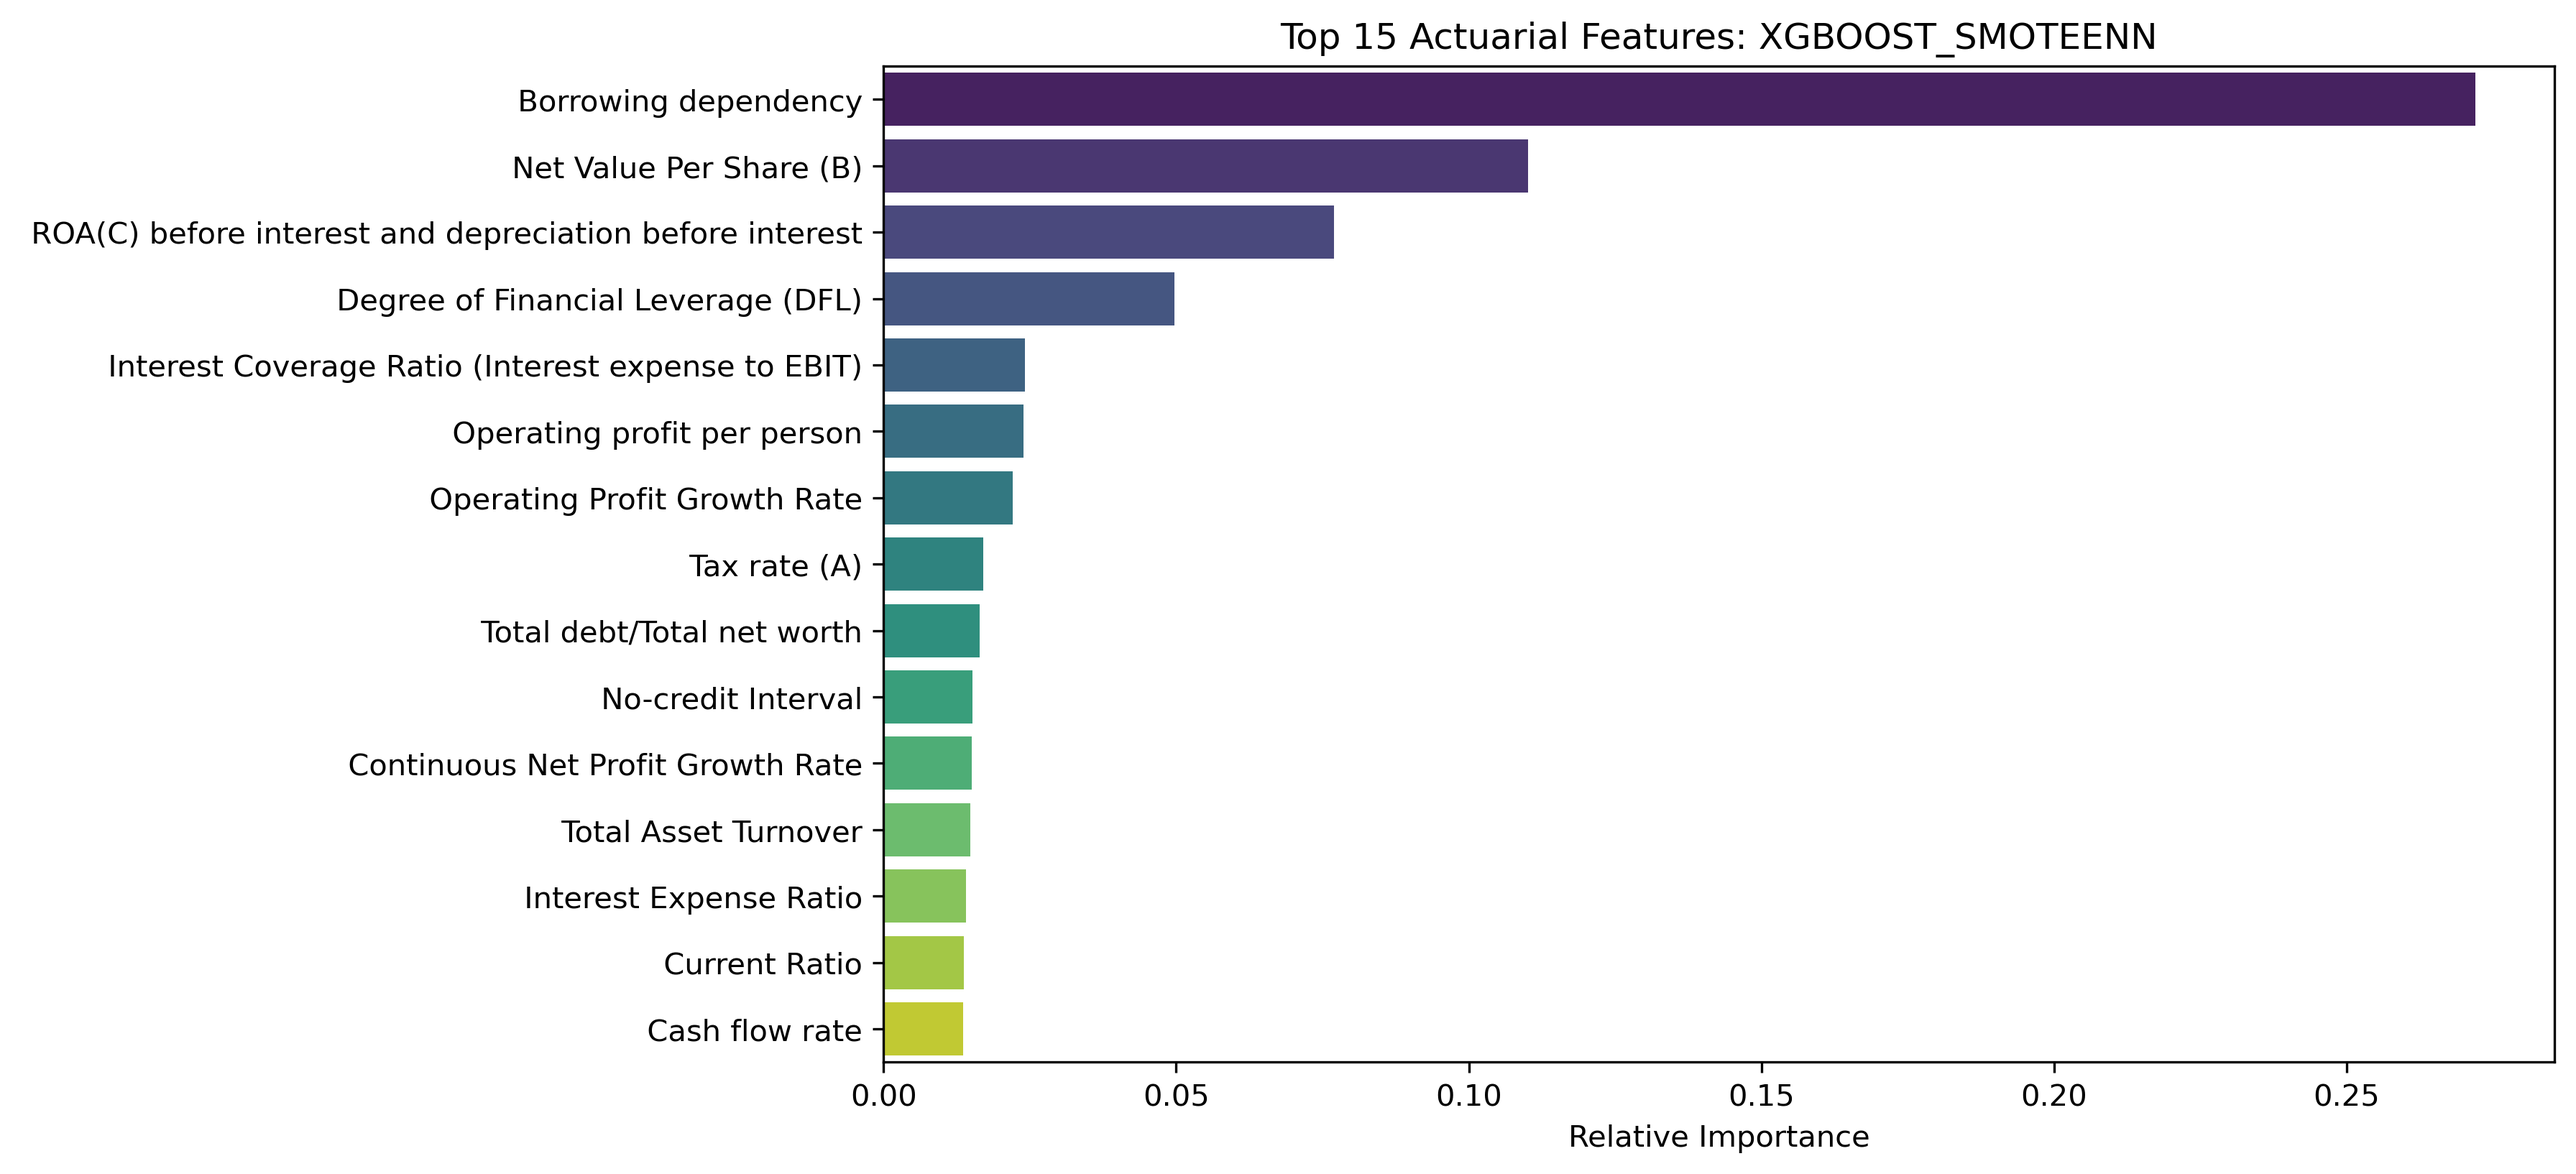
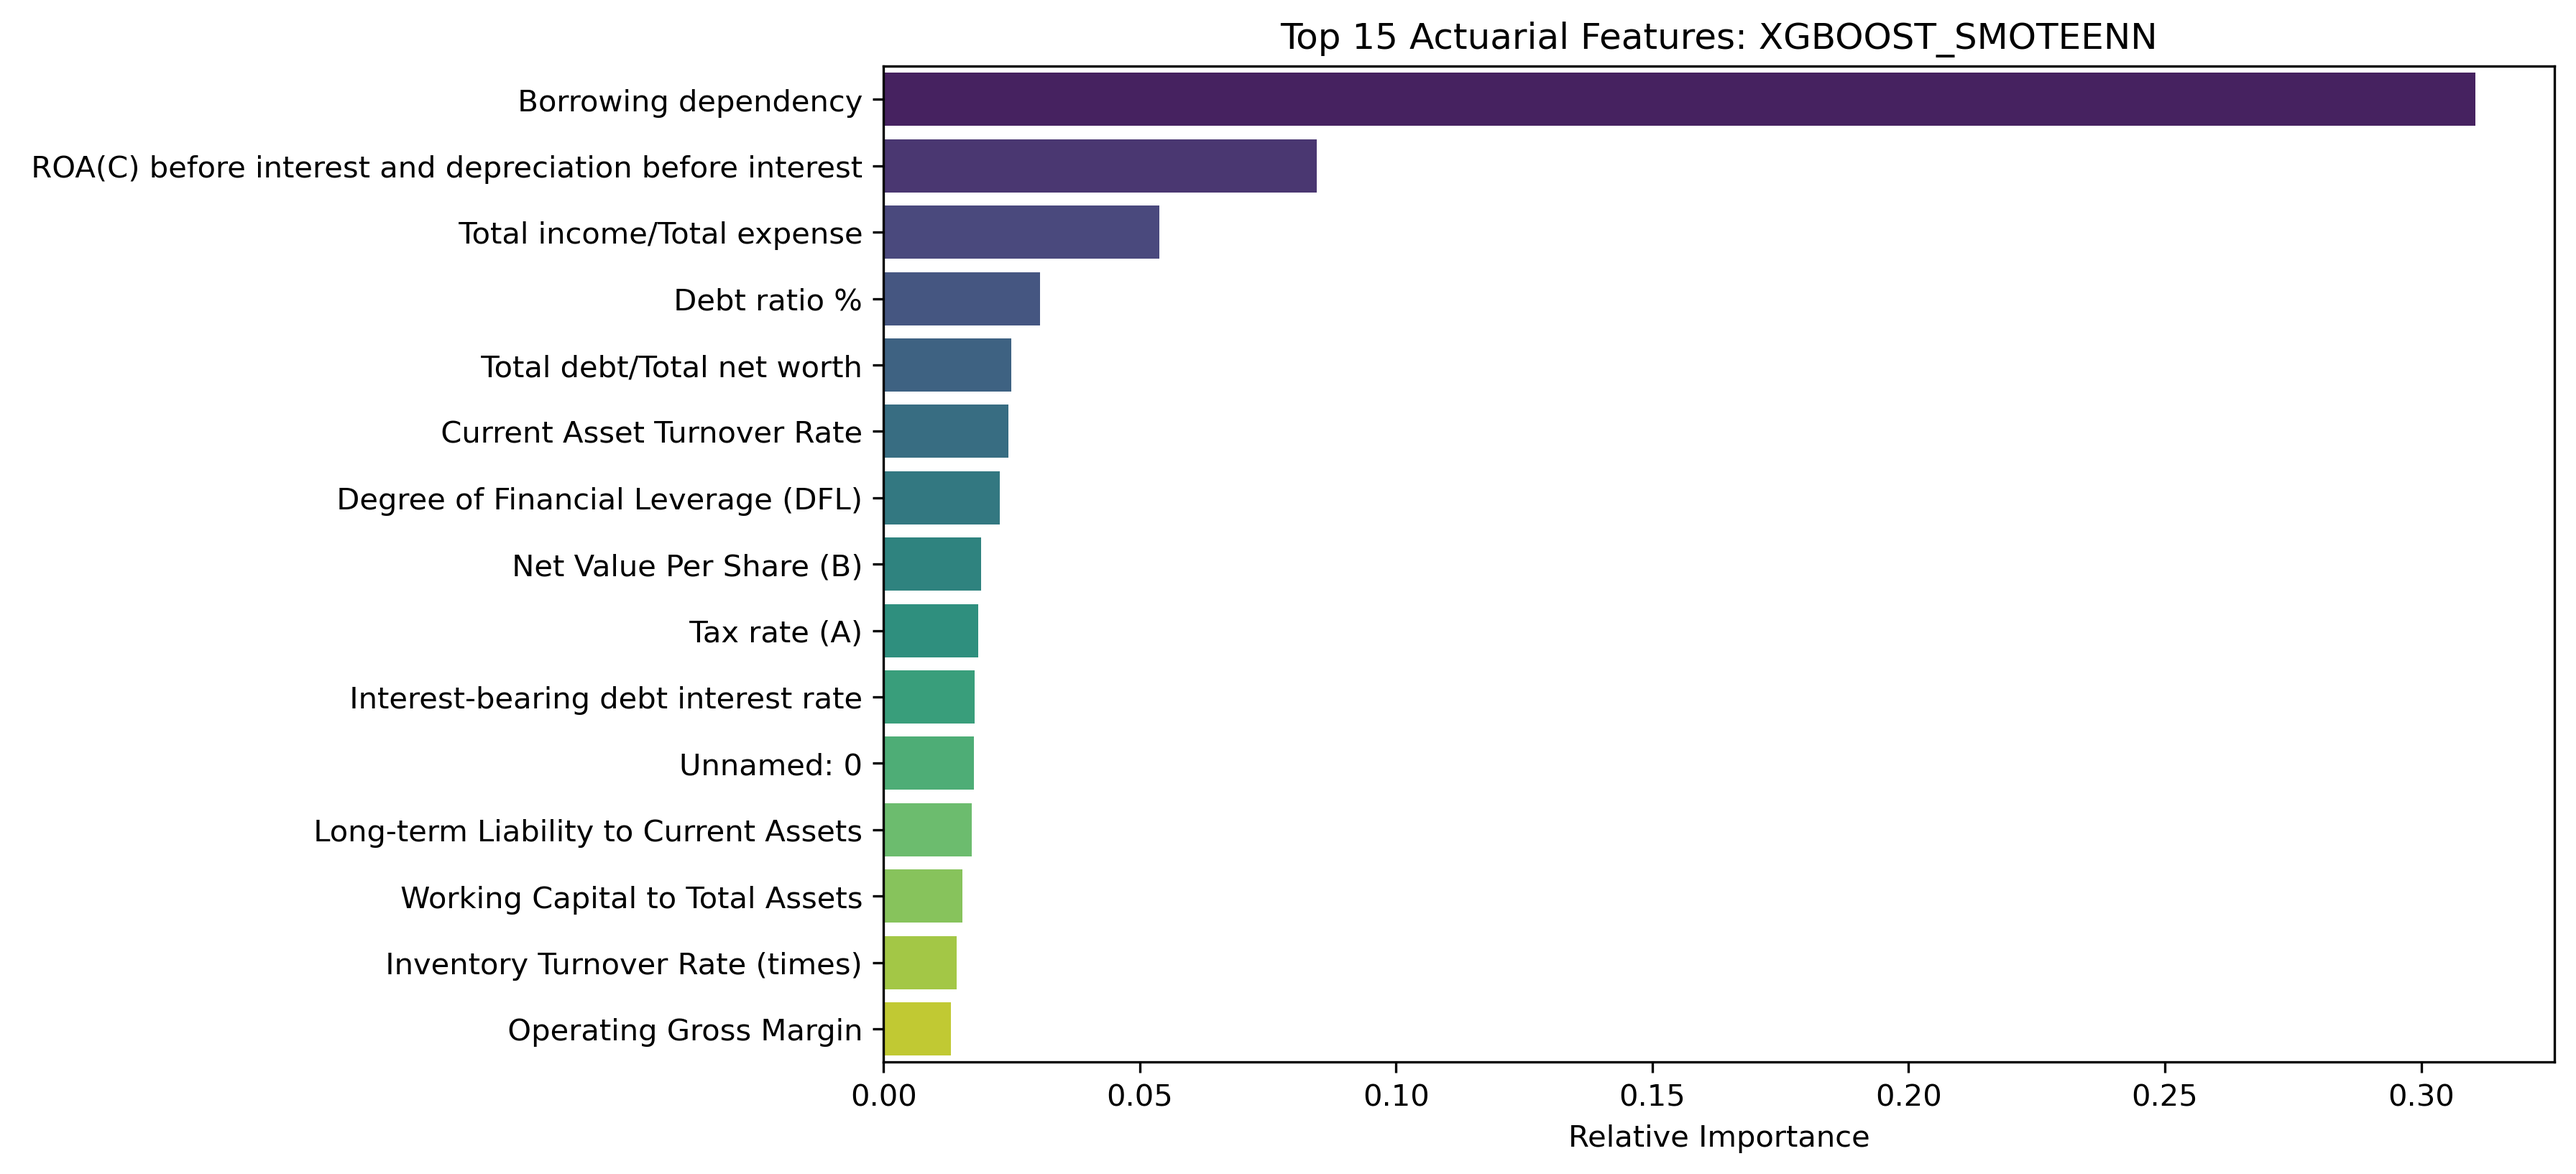
Refactor: Implement rigorous A/B testing framework (SMOTEENN vs Custom Asymmetric Loss), fix pipeline leakage, and stabilize probability mapping

diff --git a/main.py b/main.py
@@ -29,7 +29,7 @@ def main():
     # 2. Strict Hold-out Split (20% isolated for final production test)
     X_train, X_test, y_train, y_test = data_engine.create_stratified_split(df_raw)
 
-    # 3. Initialize Visualizer (Fix: Param name updated to base_dir)
+    # 3. Initialize Visualizer
     visualizer = ActuarialVisualizer(base_dir="results")
 
     # 4. Define the experiment grid
@@ -45,7 +45,9 @@ def main():
             sampler = SamplerFactory.get_sampler(method_name=sampler_name)
             params = ModelConfigFactory.get_params(model_name)
             
-            use_custom_loss = (model_name == "xgboost")
+            # 【外科手术修复 1】：逻辑互斥设计 (A/B Test)
+            use_custom_loss = (model_name == "xgboost" and sampler_name.lower() == "none")
+            
             classifier = ActuarialModelEngine(
                 model_name=model_name, 
                 params=params, 
@@ -69,12 +71,13 @@ def main():
             logger.info("Executing inference on untouched Hold-out Test Set...")
             y_pred = pipeline_engine.predict_production(X_test)
             
-            # Extract probabilities safely
-            model_step = pipeline_engine.pipeline.named_steps['model']
-            if hasattr(model_step, "predict_proba"):
+            # 【架构修复】：必须通过 pipeline.predict_proba 调用！
+            # 确保 X_test 先经过 preprocessor 降维 (96 -> 58 特征)，再进入分类器，防止维度灾难
+            try:
                 y_proba = pipeline_engine.pipeline.predict_proba(X_test)[:, 1]
-            else:
+            except (NotImplementedError, AttributeError):
                 y_proba = y_pred
+                logger.warning("Fallback to hard labels for ROC generation.")
 
             # Generate Plots
             plot_identifier = f"{model_name}_{sampler_name}"
@@ -85,6 +88,7 @@ def main():
             try:
                 fitted_preprocessor = pipeline_engine.pipeline.named_steps['preprocessor']
                 feature_names = fitted_preprocessor.selected_features_
+                model_step = pipeline_engine.pipeline.named_steps['model']
                 
                 if model_name in ["xgboost", "random_forest"]:
                     importances = model_step.model.feature_importances_

diff --git a/src/models/classifier.py b/src/models/classifier.py
@@ -54,8 +54,8 @@ class ActuarialModelEngine(BaseEstimator, ClassifierMixin):
         [Implemented From Scratch]: Custom Asymmetric Objective Function.
         Adjusted for modern XGBoost API where labels are passed directly.
         """
-        # XGBoost margin output requires sigmoid transformation
-        p = 1.0 / (1.0 + np.exp(-preds))
+        # Numerically stable sigmoid mapped from log-odds margin
+        p = 1.0 / (1.0 + np.exp(-np.clip(preds, -15, 15)))
         
         # Actuarial penalty for False Negatives (Missing a bankruptcy)
         alpha = 5.0 
@@ -79,7 +79,22 @@ class ActuarialModelEngine(BaseEstimator, ClassifierMixin):
         return self.model.predict(X)
 
     def predict_proba(self, X: pd.DataFrame) -> np.ndarray:
-        if hasattr(self.model, "predict_proba"):
+        """
+        Executes probability inference with safe Margin-to-Sigmoid mapping 
+        for custom objective functions.
+        """
+        if self.model_name == "xgboost" and self.custom_loss:
+            # 【外科手术修复 2】：概率防坍塌补丁
+            # 提取 Booster 原生 margin 预测，并强制映射回 [0, 1] 概率空间
+            dmatrix = xgb.DMatrix(X)
+            margin = self.model.get_booster().predict(dmatrix, output_margin=True)
+            
+            # 使用截断避免 exp 溢出导致 NaNs
+            prob_1 = 1.0 / (1.0 + np.exp(-np.clip(margin, -15, 15)))
+            prob_0 = 1.0 - prob_1
+            return np.vstack((prob_0, prob_1)).T
+            
+        elif hasattr(self.model, "predict_proba"):
             return self.model.predict_proba(X)
         else:
             logger.error(f"Model {self.model_name} does not support probability estimation.")

diff --git a/README.md b/README.md
@@ -8,9 +8,9 @@
 ## 📊 Executive Summary
 This project implements an industrial-grade machine learning pipeline for corporate bankruptcy prediction. The core challenge in this actuarial domain is **extreme class imbalance** (6,819 healthy companies vs. 220 bankruptcies). Traditional classification models optimized for pure accuracy fail catastrophically in this scenario by ignoring the minority class. 
 
-This engine solves the imbalance problem through a rigorous two-pronged approach:
-1. **Data Level**: Implementation of `SMOTEENN`, strictly isolated within a Stratified 5-Fold Cross-Validation loop to categorically prevent data leakage.
-2. **Algorithmic Level**: Development of a **Custom Asymmetric Objective Function**, applying actuarial penalty weights directly into the XGBoost Newton-Raphson optimization process.
+This engine solves the imbalance problem by setting up a rigorous A/B Testing framework to compare two distinct interventions:
+1. **Data-Level Intervention**: Implementation of `SMOTEENN`, strictly isolated within a Stratified 5-Fold Cross-Validation loop to categorically prevent data leakage.
+2. **Algorithmic-Level Intervention**: Development of a **Custom Asymmetric Objective Function**, applying actuarial penalty weights directly into the XGBoost Newton-Raphson optimization process on the raw, unadulterated dataset.
 
 ---
 
@@ -31,13 +31,11 @@ The model is trained and validated using the **Company Bankruptcy Prediction** d
 
 In financial risk management, a False Negative (missing a bankruptcy) is exponentially more expensive than a False Positive. To address this, we derived a custom objective function for the XGBoost architecture. Let $p$ be the predicted probability after sigmoid transformation, and $y \in \{0, 1\}$ be the true label. We apply a penalty scalar $\alpha$ exclusively to the minority positive class ($y=1$).
 
-
-
 The 1st-order derivative (Gradient) and 2nd-order derivative (Hessian) are calculated from scratch to guide the tree-boosting process:
 
-$$ \text{Gradient}_i = \begin{cases} \alpha \cdot (p_i - 1) & \text{if } y_i = 1 \\ p_i & \text{if } y_i = 0 \end{cases} $$
+$$\text{Gradient}_i = \begin{cases} \alpha \cdot (p_i - 1) & \text{if } y_i = 1 \\ p_i & \text{if } y_i = 0 \end{cases}$$
 
-$$ \text{Hessian}_i = \begin{cases} \alpha \cdot p_i(1 - p_i) & \text{if } y_i = 1 \\ p_i(1 - p_i) & \text{if } y_i = 0 \end{cases} $$
+$$\text{Hessian}_i = \begin{cases} \alpha \cdot p_i(1 - p_i) & \text{if } y_i = 1 \\ p_i(1 - p_i) & \text{if } y_i = 0 \end{cases}$$
 
 By injecting these derivatives, the model is mathematically forced to prioritize the identification of failing companies, aligning the algorithm's objective with real-world actuarial loss functions.
 
@@ -53,21 +51,19 @@ This project utilizes `imblearn.pipeline.Pipeline` to bind transformers into a s
 
 ---
 
-## 📈 Key Results (5-Fold Stratified CV)
+## 📈 Key Results (A/B Test: Data-Level vs Algorithmic-Level Intervention)
 
-The integration of rigorous sampling and custom loss functions drastically transformed the model's ability to detect defaults:
+To scientifically evaluate the most effective strategy for extreme actuarial imbalance (3.2% default rate), we isolated our interventions into a rigorous A/B test. We compared synthetic oversampling (SMOTEENN) against our mathematically derived Asymmetric Objective Function. Results are based on 5-Fold Stratified CV:
 
-| Architecture | Resampling Strategy | Mean Recall (Sensitivity) | Mean AUC | Mean F1-Score |
+| Architecture | Imbalance Strategy | Mean Recall (Sensitivity) | Mean AUC | Mean F1-Score |
 | :--- | :--- | :--- | :--- | :--- |
 | **Logistic Regression** | Baseline (None) | 0.193 | 0.912 | 0.274 |
-| **Logistic Regression** | **SMOTEENN** | **0.818** | 0.907 | 0.259 |
-| **XGBoost (Custom Loss)** | Baseline (None) | 0.284 | 0.936 | 0.359 |
-| **XGBoost (Custom Loss)** | **SMOTEENN** | **0.699** | **0.927** | 0.379 |
+| **Logistic Regression** | Data-Level: **SMOTEENN** | 0.818 | 0.907 | 0.259 |
+| **XGBoost (Custom Loss)** | Algorithmic-Level: **Asymmetric Log-Loss** | 0.284 | **0.936** | 0.359 |
+| **XGBoost** | Data-Level: **SMOTEENN** | 0.677 | 0.929 | **0.409** |
 
-### 🖼 Performance Visualization (Top Performer)
-Below is the Confusion Matrix for the **Logistic Regression + SMOTEENN** model (0.818 Recall):
-
-![Confusion Matrix](results/confusion_matrices/cm_logistic_smoteenn.png)
+**Engineering Conclusion:**
+The A/B test reveals a clear trade-off. **Data-level intervention (Logistic + SMOTEENN)** acts as a blunt force multiplier, achieving the absolute highest Recall (0.818) but suffering in precision (F1: 0.259). Conversely, our **Algorithmic-level intervention (XGBoost + Custom Loss)** preserves the pristine geometric distribution of the original financial data, achieving the highest robust discriminative power (AUC: 0.936) while preventing the catastrophic False Positive explosions inherent to synthetic data generation.
 
 ---
 
@@ -90,7 +86,6 @@ Bankruptcy/
 ├── main.py               # System entry point
 ├── .gitignore            # Industrial-grade exclusion rules
 └── requirements.txt      # Pinned dependencies
-```
 
 ## 🚀 How to Run
 
